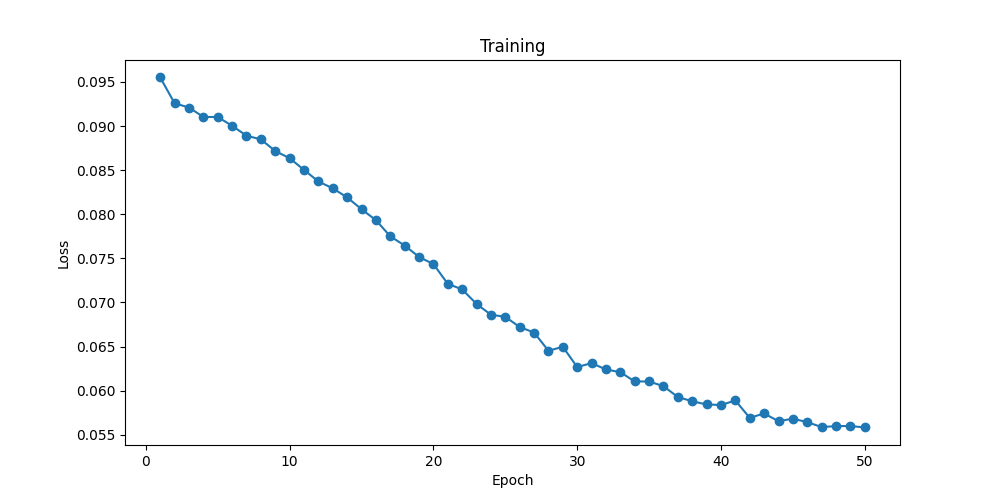
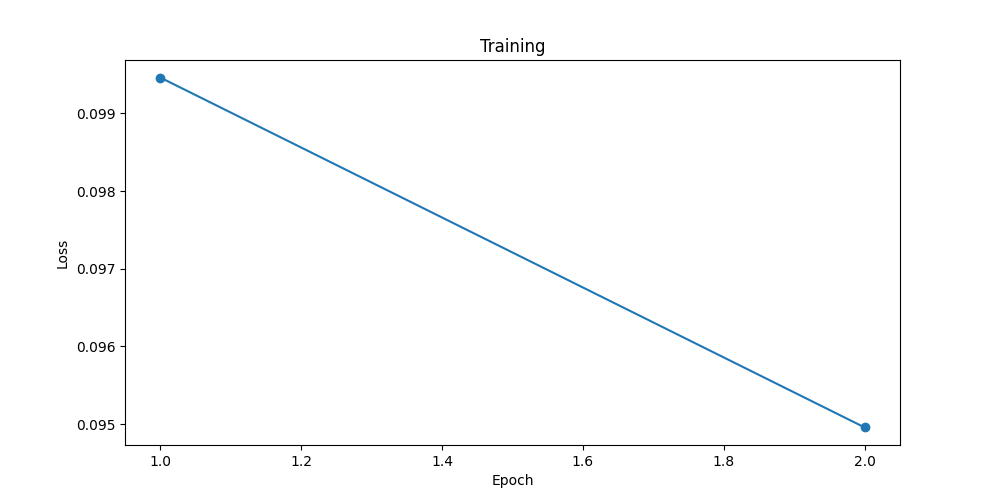
commit

diff --git a/ML_train.py b/ML_train.py
@@ -298,34 +298,30 @@ def run_ML(train_inputs,train_labels):
         #print(scheduler.get_last_lr())
 
     plotting_performance(train_loss_values,"Training")
-    plotting_results_general_training(error,predictions,gt,"Training")
 
-    return
-
+    return model
 
 
 
-if __name__ == "__main__":
-    window_len_sample_downsampled = user_inputs.window_len_sample_downsampled
-    ML_type = user_inputs.ML_type
-    batch_size = user_inputs.batch_size
-    num_epochs = user_inputs.num_epochs
-    if ML_type == "CNN":
-        my_ML_model = CNN()
-    elif ML_type == "NN":
-        my_ML_model = NN()
-    elif ML_type == "CNN_LSTM_a":
-        my_ML_model = CNN_LSTM_a()      
-    elif ML_type == "CNN_LSTM_b":
-        my_ML_model = CNN_LSTM_b()            
-    elif ML_type == "CNN_LSTM_c":
-        my_ML_model = CNN_LSTM_c()    
-    elif ML_type == "FC":
-        my_ML_model = FC()     
-    
-    model = run_ML(splitting_normalization.data_train_xy,splitting_normalization.train_z_norm_l)
 
-    #### save model
+window_len_sample_downsampled = user_inputs.window_len_sample_downsampled
+ML_type = user_inputs.ML_type
+batch_size = user_inputs.batch_size
+num_epochs = user_inputs.num_epochs
+if ML_type == "CNN":
+    my_ML_model = CNN()
+elif ML_type == "NN":
+    my_ML_model = NN()
+elif ML_type == "CNN_LSTM_a":
+    my_ML_model = CNN_LSTM_a()      
+elif ML_type == "CNN_LSTM_b":
+    my_ML_model = CNN_LSTM_b()            
+elif ML_type == "CNN_LSTM_c":
+    my_ML_model = CNN_LSTM_c()    
+elif ML_type == "FC":
+    my_ML_model = FC()     
+
+model = run_ML(splitting_normalization.data_train_xy,splitting_normalization.train_z_norm_l)
 
     #### things different from previous: the way the gain is applied, the noise feature is different, and only one window of each noise file was considered.
     ####### TRY SAME STANDARIZATION (MIN-MAX), AND [-1 1] NOT [0 1]

diff --git a/ML_val_test.py b/ML_val_test.py
@@ -1,10 +1,6 @@
 from imports import *
-import user_inputs
 import splitting_normalization
-
-
-
-
+import ML_train
 
 def ML_validating(model, val_inputs,val_labels):
     reg_criterion = nn.MSELoss()
@@ -65,9 +61,28 @@ def ML_testing(model, test_inputs, test_labels):
 
     printing_label = "Testing"
     plotting_results_general_other(errors_test,all_pred,all_gt,printing_label)
+def plotting_results_general_other(error,predictions,gt,printing_label):
+    error_ready = [element for array in error for element in array.tolist()]
+    # plt.figure(figsize=(10,5))
+    # plt.hist(error_ready,bins=30)
+    # plt.xlabel("Error [%]")
+    # plt.ylabel("Num of datapoints")
+    # #plt.title(title)
+    # #plt.show()
+    # plt.savefig(f"{printing_label} histogram performance.png")
 
+    real_ready = [value.item() for value in gt]
+    pred_ready = [value.item() for value in predictions]
+    plt.figure(figsize=(10,5))
+    plt.plot(real_ready,label="orig")
+    plt.plot(pred_ready,label="pred")
+    plt.legend()
+    plt.xlabel("datapoint")
+    plt.ylabel("Noise RMS")
+    #plt.title(title)
+    #plt.show()
+    plt.savefig(f"{printing_label} raw performance.png")
 
 ### import model
-
-ML_validating(model, splitting_normalization.data_val_xy, splitting_normalization.val_z_norm_l)
-ML_testing(model, splitting_normalization.data_test_xy, splitting_normalization.test_z_norm_l)
+ML_validating(ML_train.model, splitting_normalization.data_val_xy, splitting_normalization.val_z_norm_l)
+ML_testing(ML_train.model, splitting_normalization.data_test_xy, splitting_normalization.test_z_norm_l)

diff --git a/user_inputs.py b/user_inputs.py
@@ -4,7 +4,7 @@ recordings_dir = r"audio_files_short"
 noise_dir = r"noise_files"
 window_size_sec = 4  # in [s]
 sampling_freq = 44100  # in [Hz]  
-num_epochs=50
+num_epochs=2
 train_ratio = .9
 val_ratio = .05
 downsampling_new_sr = 690 #Ratio=64,128 = 690,344
